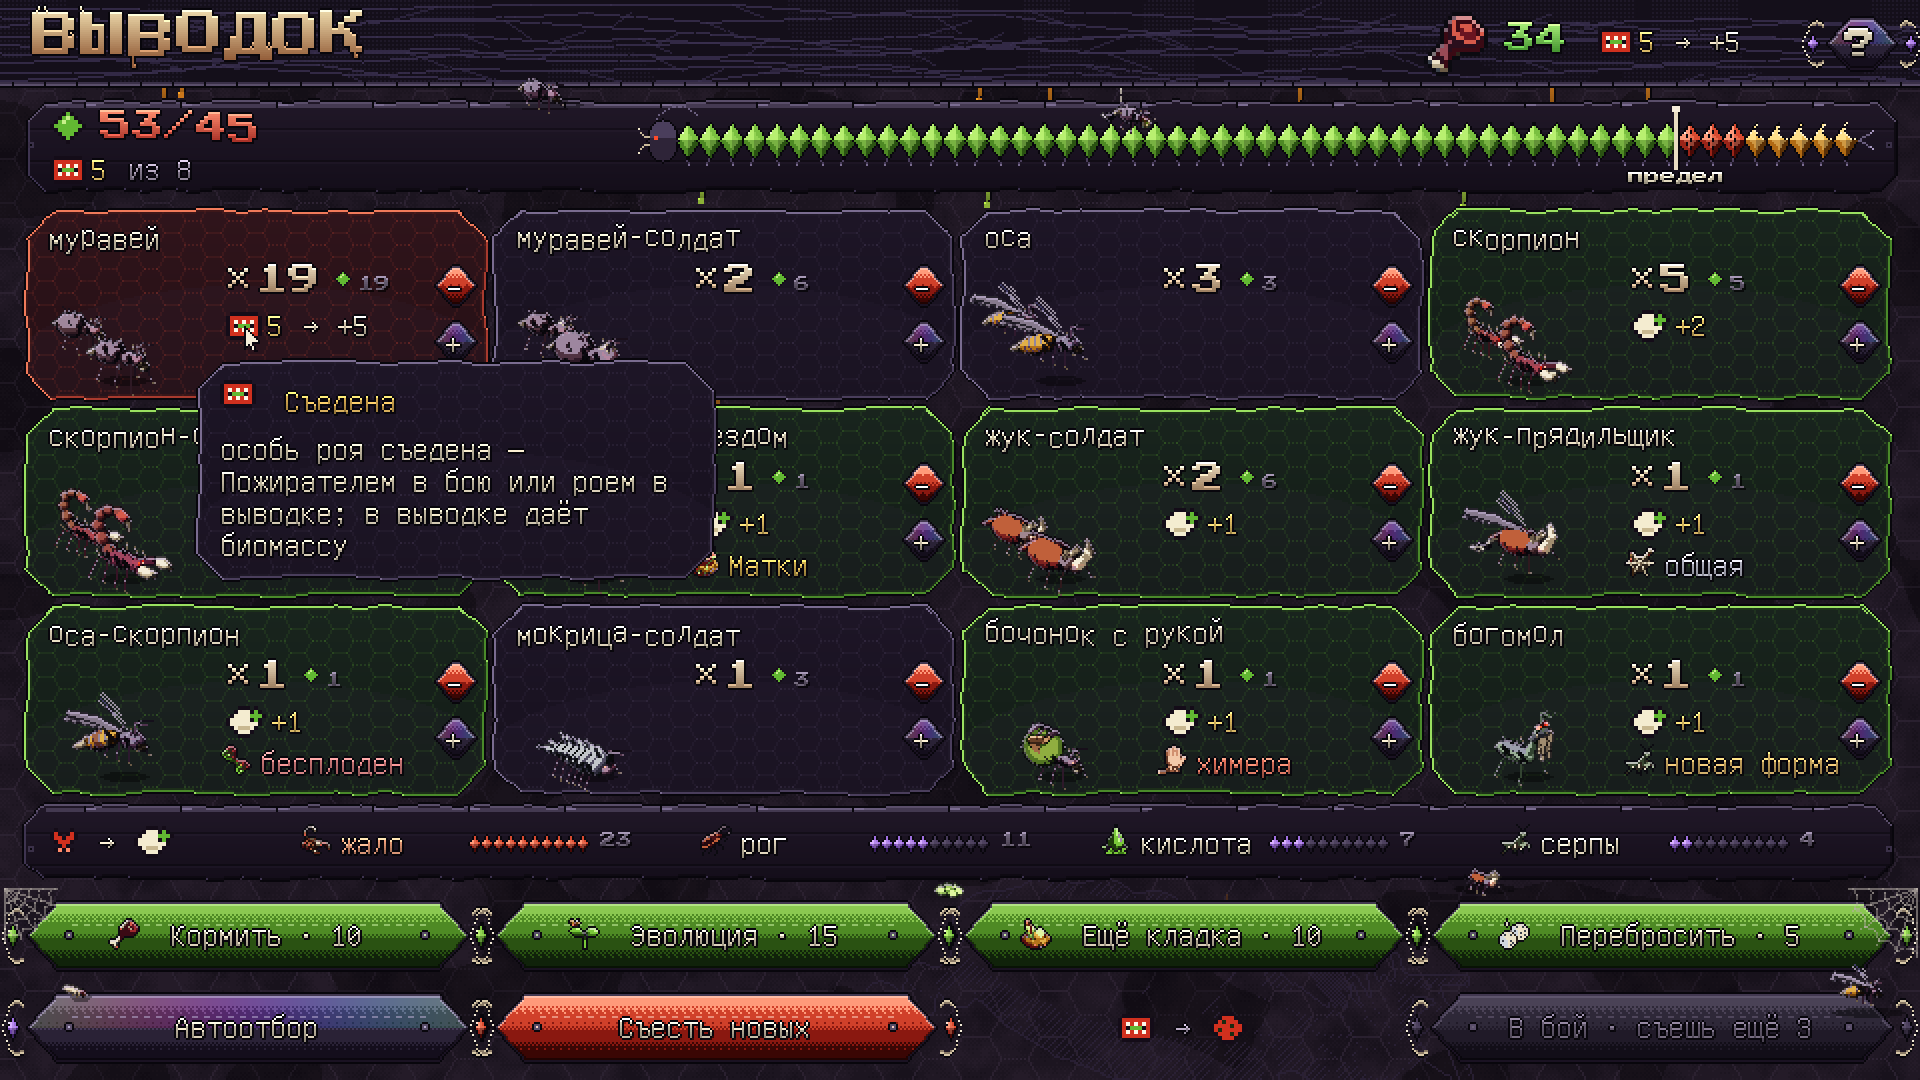
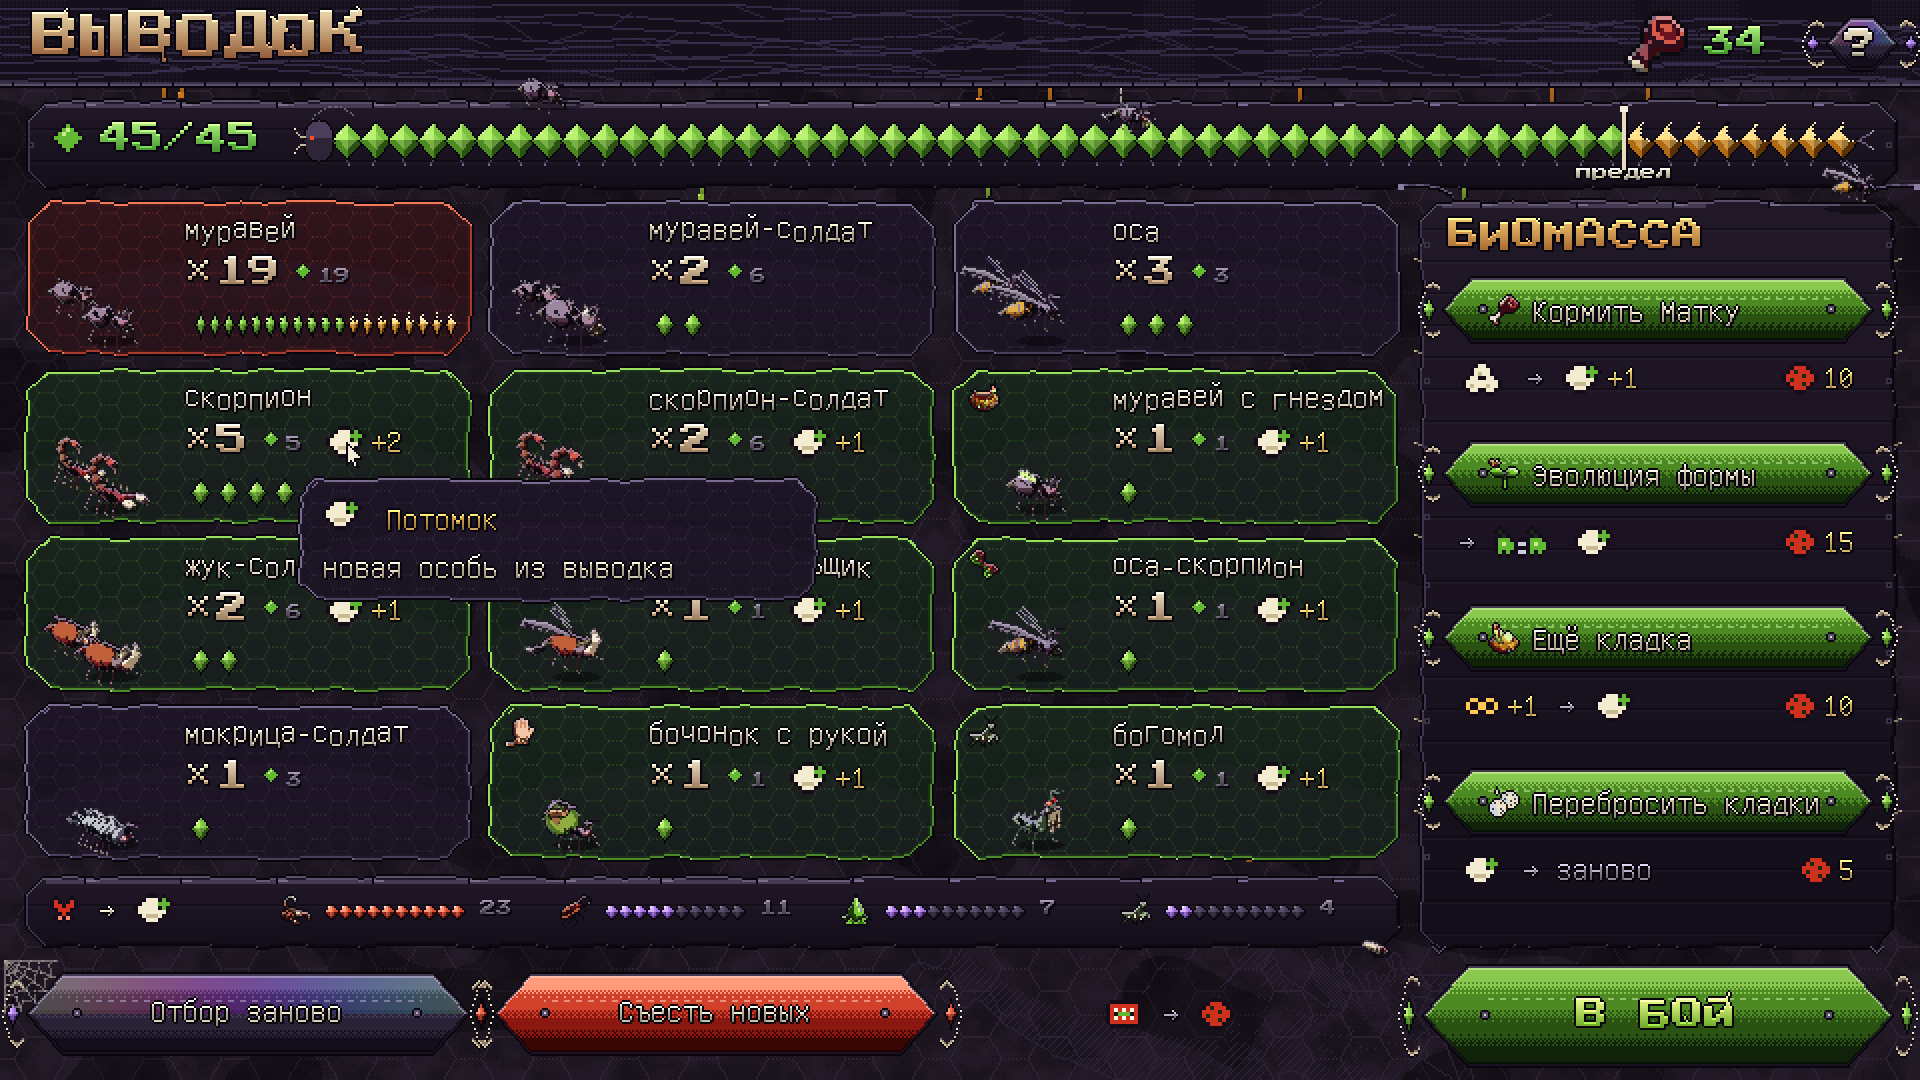
Выводок проще: автоотбор сразу, особи камешками, траты своей колонкой
Автоотбор уже сделан при входе, рой в пределе, «В бой» открыт всегда; щелчок по
группе съедает ещё одну особь, правый — возвращает. Вместо «−/+» — ряд камешков,
съеденные надкусаны. Траты биомассы — колонкой справа: у каждой кнопки свой объект,
строка значков и цена. Повторы «съедена» убраны.

Claude-Session: https://claude.ai/code/session_01Bh6a99SKMjjKSinDnrtssC

diff --git a/tools/sprites/swarm_hud.py b/tools/sprites/swarm_hud.py
@@ -139,97 +139,106 @@ def keycap(sc, x, y, t, lit=False):
 
 
 # ---------------------------------------------------------------- the brood: everything hatched, eat the extra
+SPEND = [   # what biomass buys in the brood: (icon, the button, what it does, cost)
+    ("feed", "Кормить Матку", "{выводок} → {потомок:+1}", 10),
+    ("evolve", "Эволюция формы", "→ {порода} {потомок}", 15),
+    ("clutch", "Ещё кладка", "{пара:+1} → {потомок}", 10),
+    ("reroll", "Перебросить кладки", "{потомок} → заново", 5),
+]
+
+
 def brood(variant=None):
+    """The brood: everything has hatched and the swarm is over its limit. The auto-selection has already eaten
+    the extra — those whose traits killed least — so the swarm fits and «В БОЙ» is open from the start; the player
+    only corrects it: a click on a group eats one more, a right click gives one back. Each creature is a gem in
+    its group's row, the eaten ones bitten. Biomass is spent in its own column, each button saying on whom."""
     import brood as B
     sc = frame_screen(31)
     UI.engrave(sc, leader("Матка", "idle", 2.2), 640, 560, k=0.8)
     UI.wing(sc, 0, 0, WW, 44)
     UI.drips(sc, 40, 920, 44, "#b06818", n=7, seed=3)
     title(sc, "ВЫВОДОК", seed=5)
-    # biomass, top right
-    icon(sc, "biomass", 712, 6, 2)
-    letters(sc, "34", 752, 12, "title", 16, col=(170, 240, 120), col2=(70, 150, 50), jitter=1)
-    fx_line(sc, 798, 12, "{съедена:5} → +5")
+    icon(sc, "biomass", 812, 6, 2)
+    letters(sc, "34", 852, 12, "title", 16, col=(170, 240, 120), col2=(70, 150, 50), jitter=1)
     help_button(sc)
-    # the limit: an abdomen of segments
-    total, eaten = B.totals()
-    UI.plate(sc, 12, 50, 948, 96)
-    fx_line(sc, 24, 54, "{предел}")
-    letters(sc, f"{total}/{B.LIMIT}", 50, 56, "title", 16, col=(255, 140, 110), col2=(170, 50, 40), jitter=1)
-    fx_line(sc, 24, 76, f"{{съедена:{eaten}}} из {total - B.LIMIT}", dim=True)
-    bx0, bx1 = 322, 938
-    sb0, sw = UI.segbar(sc, bx0, 62, bx1, 16, total, B.LIMIT, eaten)
-    letters(sc, "предел", sb0 + B.LIMIT * sw, 84, "title", 8, col=(240, 230, 200), align="center")
-    UI.drips(sc, 300, 900, 96, "#7a9a30", n=3, seed=7, Lmax=9)
-    # the groups: comb cells
-    GX0, GY0, GCW, GCH = 12, 104, 232, 96
-    for k_, (traits, soldier, chim, hue, name, count, new, badge, eat) in enumerate(B.GROUPS):
-        x0, y0 = GX0 + (k_ % 4) * (GCW + 2), GY0 + (k_ // 4) * (GCH + 3)
+    # the auto-selection, already done: plain ants go first, their traits killed least
+    groups = [list(g) for g in B.GROUPS]
+    total = sum(B.pts(g) * g[5] for g in groups)
+    over = total - B.LIMIT
+    for g in groups:
+        g[8] = 0
+    groups[0][8] = over
+    # the limit: an abdomen of segments, all within it now
+    UI.plate(sc, 12, 50, 948, 94)
+    fx_line(sc, 24, 60, "{предел}")
+    letters(sc, f"{total - over}/{B.LIMIT}", 50, 62, "title", 16, col=(170, 240, 120), col2=(70, 150, 50), jitter=1)
+    bx0, bx1 = 150, 938
+    sb0, sw = UI.segbar(sc, bx0, 62, bx1, 16, total, B.LIMIT, over)
+    letters(sc, "предел", sb0 + B.LIMIT * sw, 82, "title", 8, col=(240, 230, 200), align="center")
+    UI.drips(sc, 300, 900, 94, "#7a9a30", n=3, seed=7, Lmax=9)
+    # the groups: comb cells, three across
+    GX0, GY0, GCW, GCH = 12, 100, 224, 78
+    for k_, (traits, soldier, chim, hue, name, count, new, badge, eat) in enumerate(groups):
+        x0, y0 = GX0 + (k_ % 3) * (GCW + 8), GY0 + (k_ // 3) * (GCH + 6)
         UI.cell(sc, x0, y0, x0 + GCW, y0 + GCH, "eat" if eat else ("new" if new else "normal"))
         mut = B.MUTS.get(k_, (None,))[0]
-        spr = W.build(traits, hue, "idle", soldier, k=1.25 if soldier else 1.6, chimera=chim, genes=W.genes_for(k_ * 7 + 3), rare=mut)
+        spr = W.build(traits, hue, "idle", soldier, k=1.05 if soldier else 1.35, chimera=chim, genes=W.genes_for(k_ * 7 + 3), rare=mut)
         if count > 1:
-            spr2 = W.build(traits, hue + 0.03, "idle", soldier, k=1.0 if soldier else 1.3, chimera=chim, genes=W.genes_for(k_ * 7 + 4), rare=mut)
-            put(sc, spr2, x0 + 30, y0 + GCH - 26, 0)
-        put(sc, spr, x0 + 50, y0 + GCH - 10, 12)
-        letters(sc, name, x0 + 12, y0 + 6, "text", 16, col=INK, jitter=1, seed=k_)
-        cw = letters(sc, f"×{count}", x0 + 100, y0 + 28, "title", 16, col=(236, 220, 190), col2=(160, 130, 100))
-        glyph(sc, "предел", x0 + 106 + cw, y0 + 31, 1)
-        letters(sc, str(B.pts(B.GROUPS[k_]) * count), x0 + 118 + cw, y0 + 34, "title", 8, col=PALE, outline=False)
-        if eat:
-            fx_line(sc, x0 + 100, y0 + 50, f"{{съедена:{eat}}} → +{eat * B.pts(B.GROUPS[k_])}")
-        elif new:
-            fx_line(sc, x0 + 100, y0 + 50, f"{{потомок:+{new}}}")
-        mark = None
-        if k_ in B.MUTS:
-            key, m = B.MUTS[k_]
-            mark = ("m_" + key, {"мутация Матки": "Матки", "общая мутация": "общая", "гибрид · бесплоден": "бесплоден"}[m],
-                    B.MARK_COL[m])
+            spr2 = W.build(traits, hue + 0.03, "idle", soldier, k=0.85 if soldier else 1.1, chimera=chim, genes=W.genes_for(k_ * 7 + 4), rare=mut)
+            put(sc, spr2, x0 + 26, y0 + GCH - 22, 0)
+        put(sc, spr, x0 + 44, y0 + GCH - 8, 12)
+        if k_ in B.MUTS:                                   # what it carries: the mutation's icon, top left
+            icon(sc, "m_" + B.MUTS[k_][0], x0 + 8, y0 + 6)
         elif badge:
-            mark = (B.KID_ICON[badge], badge, B.BADGE[badge])
-        if mark:
-            icon(sc, mark[0], x0 + 98, y0 + 70)
-            letters(sc, mark[1], x0 + 118, y0 + 71, "text", 16, col=mark[2])
-        UI.button(sc, x0 + 204, y0 + 28, x0 + 228, y0 + 50, "blood")
-        UI.button(sc, x0 + 204, y0 + 56, x0 + 228, y0 + 78, "chitin")
-        letters(sc, "−", x0 + 216, y0 + 31, "text", 16, col=INK, align="center")
-        letters(sc, "+", x0 + 216, y0 + 59, "text", 16, col=INK, align="center")
-    # natural selection
-    UI.plate(sc, 12, 402, 948, 440)
-    fx_line(sc, 24, 412, "{убийство} → {потомок}")
+            icon(sc, B.KID_ICON[badge], x0 + 8, y0 + 6)
+        letters(sc, name, x0 + 80, y0 + 6, "text", 16, col=INK, jitter=1, seed=k_)
+        cw = letters(sc, f"×{count}", x0 + 80, y0 + 28, "title", 16, col=(236, 220, 190), col2=(160, 130, 100))
+        glyph(sc, "предел", x0 + 86 + cw, y0 + 31, 1)
+        letters(sc, str(B.pts(groups[k_]) * count), x0 + 98 + cw, y0 + 34, "title", 8, col=PALE, outline=False)
+        if new:
+            fx_line(sc, x0 + 150, y0 + 28, f"{{потомок:+{new}}}")
+        # one gem per creature, the eaten ones bitten
+        step = min(14.0, 132.0 / max(1, count))
+        for j in range(count):
+            UI.gem(sc, x0 + 88 + j * step, y0 + 62, max(3.0, min(5.5, step * 0.46)), 7.0,
+                   "eat" if j >= count - eat else "ok", bite=j >= count - eat)
+    # natural selection: who killed, breeds
+    UI.plate(sc, 12, 438, 700, 474)
+    fx_line(sc, 24, 446, "{убийство} → {потомок}")
     for i, (name, kills, key) in enumerate(B.SELECTION):
-        x = 150 + i * 200
-        icon(sc, key, x, 412)
-        letters(sc, name, x + 20, 413, "text", 16, col=INK if i else (255, 170, 130))
-        UI.meter(sc, x + 84, 418, x + 144, 7, 10, round(10 * kills / 23), "#c04a3a" if i == 0 else "#8a6aa8")
-        letters(sc, str(kills), x + 150, 416, "title", 8, col=PALE, outline=False)
-    # spending and leaving
-    spend = [(12, 236, "Кормить · 10", "feed"), (246, 470, "Эволюция · 15", "evolve"),
-             (480, 704, "Ещё кладка · 10", "clutch"), (714, 948, "Перебросить · 5", "reroll")]
-    for x0, x1, t, key in spend:
-        UI.button(sc, x0, 450, x1, 486, "acid")
-        tw = UI.text_width(t)
-        icon(sc, key, (x0 + x1) / 2 - tw / 2 - 22, 459)
-        letters(sc, t, (x0 + x1) / 2 + 10, 459, "text", 16, col=INK, align="center")
-    for x0, x1, t, kind, col in ((12, 236, "Автоотбор", "chitin", INK), (246, 470, "Съесть новых", "blood", INK),
-                                 (714, 948, f"В бой · съешь ещё {total - B.LIMIT - eaten}", "dim", PALE)):
-        UI.button(sc, x0, 496, x1, 532, kind)
-        letters(sc, t, (x0 + x1) / 2, 505, "text", 16, col=col, align="center")
+        x = 140 + i * 140
+        icon(sc, key, x, 447)
+        UI.meter(sc, x + 22, 452, x + 92, 7, 10, round(10 * kills / 23), "#c04a3a" if i == 0 else "#8a6aa8")
+        letters(sc, str(kills), x + 100, 450, "title", 8, col=PALE, outline=False)
+    # correcting the selection
+    UI.button(sc, 12, 486, 236, 528, "chitin")
+    letters(sc, "Отбор заново", 124, 497, "text", 16, col=INK, align="center")
+    UI.button(sc, 246, 486, 470, 528, "blood")
+    letters(sc, "Съесть новых", 358, 497, "text", 16, col=INK, align="center")
     w_, _ = fx_line(sc, 0, 0, "{съедена} → {биомасса}", draw=False)
-    fx_line(sc, 592 - w_ // 2, 505, "{съедена} → {биомасса}", dim=True)
-    # the living: an ant walking the limit plate, one let down on silk, eggs in a corner, a wasp resting on «В бой»
+    fx_line(sc, 586 - w_ // 2, 498, "{съедена} → {биомасса}", dim=True)
+    # spending biomass: each button says on whom, a line says what it does, the price beside it
+    UI.plate(sc, 710, 100, 948, 474, antennae=True)
+    heading(sc, "БИОМАССА", 724, 110, seed=4)
+    for i, (key, label, line, cost) in enumerate(SPEND):
+        y0 = 138 + i * 82
+        UI.button(sc, 720, y0, 938, y0 + 34, "acid")
+        icon(sc, key, 744, y0 + 9)
+        letters(sc, label, 766, y0 + 9, "text", 16, col=INK)
+        fx_line(sc, 730, y0 + 42, line, dim=True)
+        wc, _ = fx_line(sc, 0, 0, f"{{биомасса:{cost}}}", draw=False)
+        fx_line(sc, 930 - wc, y0 + 42, f"{{биомасса:{cost}}}")
+    act_button(sc, 710, 482, 948, 534, "В БОЙ")
+    # the living: an ant walking the limit plate, one let down on silk, eggs in a corner
     UI.creature(sc, bug((), "idle", 1.0, 41), 272, 52)
     UI.silk(sc, (560, 44), (560, 50), sag=0)
     UI.creature(sc, bug(("ant",), "attack", 0.85, 42, rare="spinner"), 566, 64, shadow=False)
-    UI.creature(sc, clutch(0.95), 474, 446)
-    UI.creature(sc, larva("idle", 0.85), 40, 498)
-    UI.creature(sc, bug(("wings",), "idle", 0.95, 43), 934, 506)
-    UI.creature(sc, bug(("horn",), "idle", 0.8, 44), 742, 444)
-    UI.cobweb(sc, 958, 444, 34, quad=(-1, 1))
-    UI.cobweb(sc, 2, 444, 26, quad=(1, 1))
+    UI.creature(sc, larva("idle", 0.85), 690, 476)
+    UI.creature(sc, bug(("wings",), "idle", 0.95, 43), 930, 104)
+    UI.cobweb(sc, 2, 480, 26, quad=(1, 1))
     name = "brood.png"
-    if variant == "tip":                         # the mouse over «съедена» in the ants' cell
-        point_at(sc, "съедена", 2)
+    if variant == "tip":                         # the mouse over a group's newborn
+        point_at(sc, "потомок", 0)
         name = "swarm_tip_glyph.png"
     img = sc.image(S)
     UI.WOBBLE[0] = 0.0

diff --git a/docs/CONCEPT.md b/docs/CONCEPT.md
@@ -1312,15 +1312,16 @@
    несколько потомков (на старте 4). Обычно это две кладки и одна **находка** (см. ниже). Видны
    родители, формы, касты и отметки: мутация, гигант, новая форма, химера. Вылупляются все,
    и рой переполняет свой предел.
-2. **Отбор.** Игрок съедает лишних, пока рой не уложится в предел: новых или старых, по одной
-   особи или целой группой («всех муравьёв без черт»). Каждое съеденное очко предела даёт
+2. **Отбор.** Когда экран открывается, автоотбор уже сделан: съедены те, чьи черты реже убивали,
+   и рой укладывается в предел. Игрок поправляет, если хочет: щелчок по группе съедает ещё одну
+   особь, правый щелчок возвращает; «Отбор заново» возвращает автоотбор. Каждое съеденное очко предела даёт
    биомассу. Так и продолжается линия: съешь простых муравьёв, оставь скорпионов — и пары
    в следующем бою будут со жалом.
 3. По желанию — траты биомассы: кормление лидера (каждая кладка навсегда +1 потомок, каждое
    следующее кормление дороже), эволюция формы, ещё кладка (ещё одна пара даёт кладку), переброс
    кладок.
-4. «В бой» — когда рой уложился в предел. «Автоотбор» съедает тех, чьи черты реже убивали; не
-   нужно потомство — съешь всех новых, это и есть «пропустить».
+4. «В бой» открыт всегда: рой уже в пределе. Не нужно потомство — «Съесть новых», это и есть
+   «пропустить». Если игрок вернул лишних, «В бой» сам доедает их тем же правилом автоотбора.
 
 **Улей — подарок, а не магазин.** Лагерь роя называется Ульем. В нём выпадают три случайных варианта: детали или мутации (общие или
 своего лидера), уже встречавшиеся в походе. Игрок выбирает, какая особь изменится, и берёт один из трёх —
